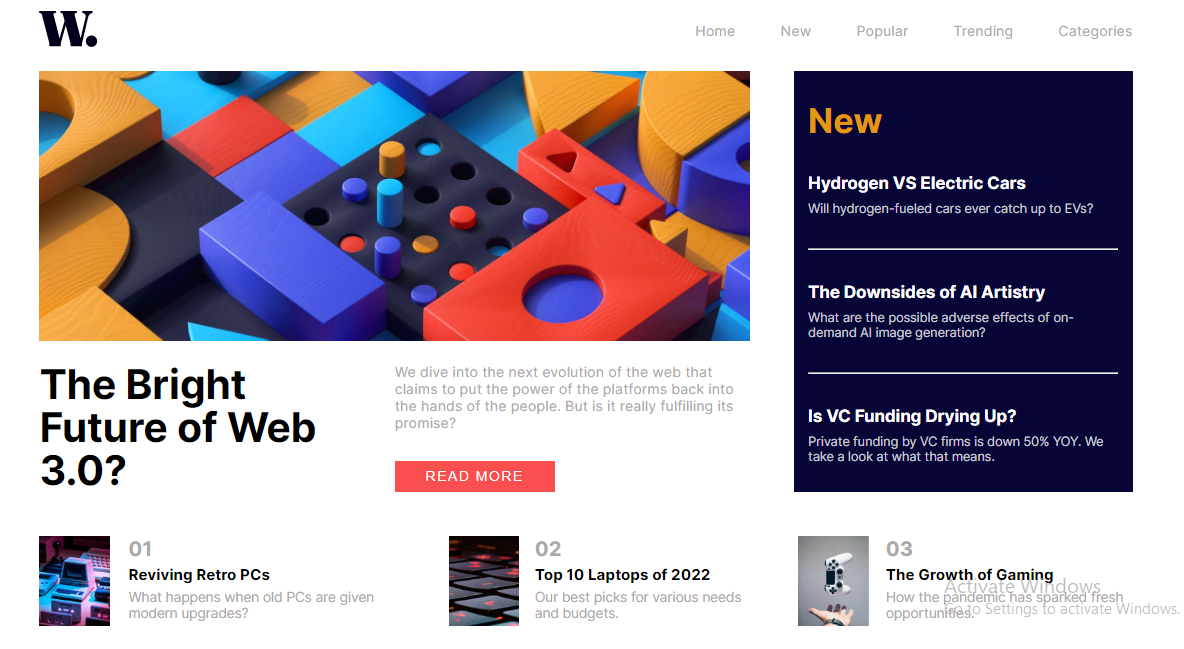
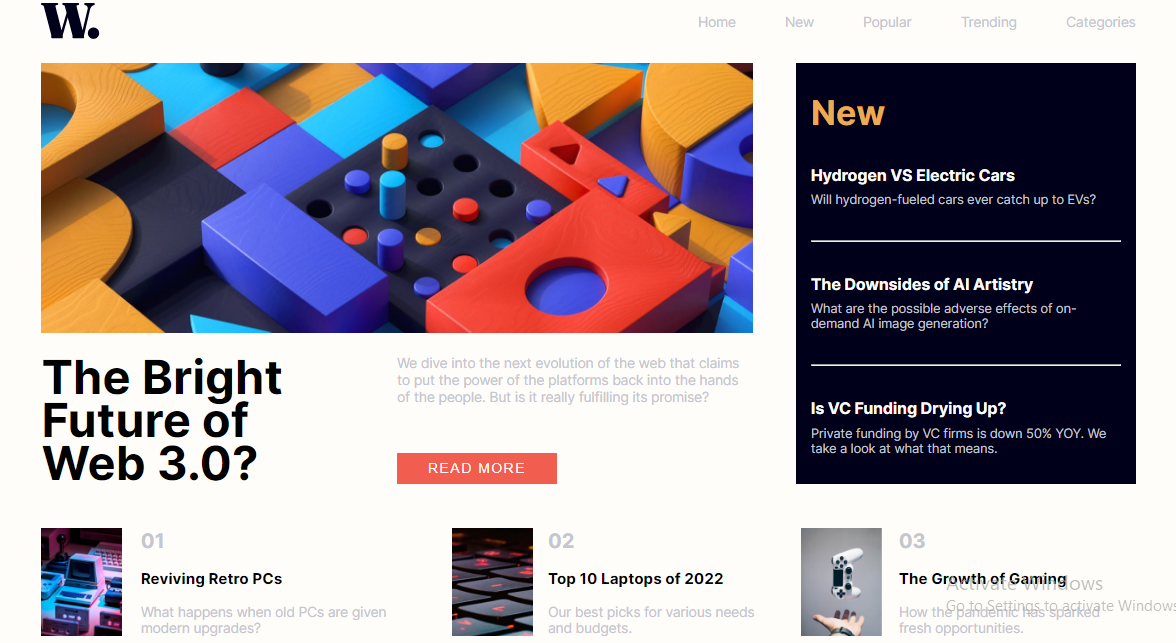
Updating the homepage screenshot and updating the style

diff --git a/style.css b/style.css
@@ -159,7 +159,7 @@ nav{
 }
 
 .left-bottom_left{
-    font-size: 30px;
+    font-size: 35px;
     font-weight: 800;
 }
 
